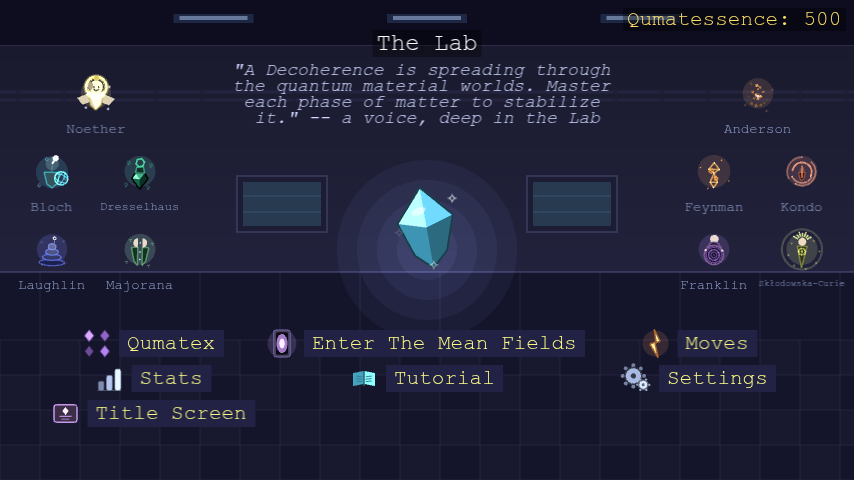
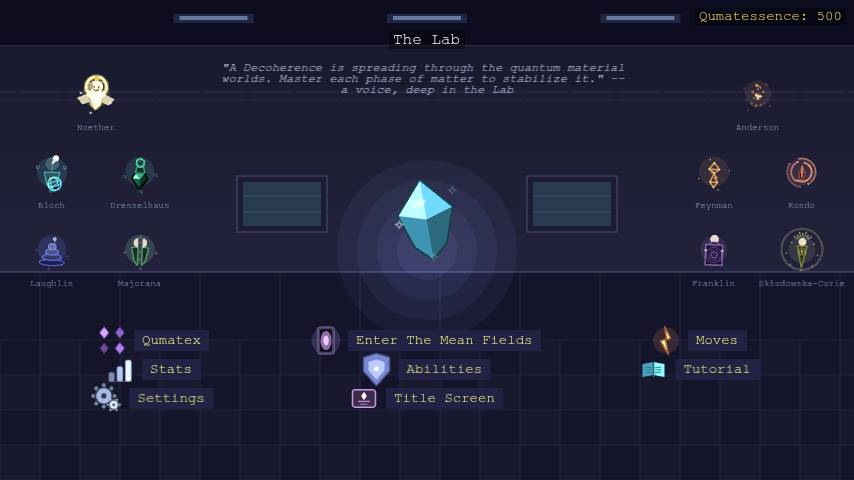
Make Franklin's plate a sheet, so she and Kondo differ in outline
Both guardians read as a ringed disc with a small central mark, and they
stand in the same cluster of the Lab, so colour was the only thing
separating them -- which greyscale defeats and small scale defeats first.

Kondo's disc is the physics: an enclosing screening cloud around a local
moment. Franklin's was a choice, and the other option is also the more
faithful one -- her diffraction images are exposed on rectangular sheet
film -- so her plate is now an upright slab carrying the same rings, held
by both edges. Her outline is the only hard-edged rectangle in the room.

diff --git a/game/src/art/franklin.ts b/game/src/art/franklin.ts
@@ -7,11 +7,16 @@ import { shade } from './colors';
 // into diffuse rings rather than the sharp spots a perfect crystal gives).
 // A slim, upright experimenter holding her detector plate out in front of
 // her like a shield -- which is also what her passives are: always-on
-// defensive diffraction effects. The plate is a dark disc filled with the
+// defensive diffraction effects. The plate is a dark upright sheet of film,
+// the rectangular format these images were actually exposed on, carrying the
 // diffuse Debye-Scherrer ring pattern a disordered sample scatters into --
-// concentric pulsing rings around a dim central beam spot, with a scatter
-// of pore sites between them. Silhouette: a head and narrow shoulders over
-// one large disc, unlike any other guardian's.
+// concentric pulsing rings around a dim central beam spot, with a scatter of
+// pore sites between them. Silhouette: a head and narrow shoulders over one
+// hard-edged upright slab. The rectangle is doing real work at Lab scale,
+// where these stand small and side by side: Kondo's screening shells are a
+// disc by necessity (an enclosing cloud *is* that physics), so a round plate
+// here would leave the two guardians sharing one outline and separable only
+// by colour, which greyscale defeats.
 //
 // Drawn in local space centered on the chest/torso (0,0), same convention
 // as every other avatar builder: an internal sway tween is baked in, so
@@ -98,13 +103,16 @@ export function makeFranklinAvatar(scene: Phaser.Scene, scale = 1): Phaser.GameO
   );
   sway.add(head);
 
-  // The detector plate, held in front of the body: dark film disc, rimmed.
+  // The detector plate, held in front of the body: a dark upright sheet of
+  // film, rimmed.
   const plateY = S * 0.18;
+  const plateW = S * 1.02;
+  const plateH = S * 1.22;
   const plate = scene.add.graphics();
   plate.fillStyle(0x191230, 1);
-  plate.fillCircle(0, plateY, S * 0.58);
+  plate.fillRect(-plateW / 2, plateY - plateH / 2, plateW, plateH);
   plate.lineStyle(1.6, shade(lavender, -15), 0.9);
-  plate.strokeCircle(0, plateY, S * 0.58);
+  plate.strokeRect(-plateW / 2, plateY - plateH / 2, plateW, plateH);
   // The dim central beam spot and the pore sites -- the disordered sample's
   // own structure printed between the rings.
   plate.fillStyle(lavender, 0.55);
@@ -119,10 +127,10 @@ export function makeFranklinAvatar(scene: Phaser.Scene, scale = 1): Phaser.GameO
     plate.fillStyle(shade(lavender, -10), 0.5);
     plate.fillCircle(p.x * S, plateY + p.y * S, S * 0.035);
   });
-  // Two hands gripping the rim -- the plate is held out, not mounted.
+  // Two hands gripping the edges -- the plate is held out, not mounted.
   plate.fillStyle(shade(skin, 4), 1);
-  plate.fillCircle(-S * 0.5, plateY - S * 0.28, S * 0.07);
-  plate.fillCircle(S * 0.5, plateY - S * 0.28, S * 0.07);
+  plate.fillCircle(-plateW / 2, plateY - S * 0.28, S * 0.07);
+  plate.fillCircle(plateW / 2, plateY - S * 0.28, S * 0.07);
   sway.add(plate);
 
   // Concentric diffraction rings on the plate -- the diffuse

diff --git a/dev_notes/STYLE.md b/dev_notes/STYLE.md
@@ -1258,13 +1258,16 @@ than the caller's requested budget) for its own layout math.
   (`#c9a8e0` label / `0xa878c9` stroke and avatar accents) name label; her avatar
   (`art/franklin.ts`'s `makeFranklinAvatar`) is a slim experimenter holding her detector
   plate out in front of her like a shield -- which is what her always-on defensive
-  passives are. The plate is a dark film disc gripped by two hands at its rim, printed
+  passives are. The plate is a dark upright sheet of film -- the rectangular format these
+  images are exposed on -- gripped by two hands at its edges and printed
   with the diffuse Debye-Scherrer ring pattern porous/amorphous carbon scatters an X-ray
   beam into: concentric rings pulsing on offset timings around a dim central beam spot,
   with scattered pore sites between them -- a dusty amethyst/lavender palette distinct
   from Anderson's rust/amber despite the shared defect/disorder theme. Silhouette: a head
-  and narrow shoulders over one large disc, the roster's only figure-behind-a-disc
-  outline.
+  and narrow shoulders over one hard-edged upright slab. The rectangle is load-bearing at
+  Lab scale, where the guardians stand small and side by side: Kondo's screening shells
+  are a disc by necessity, since an enclosing cloud is that physics, so a round plate here
+  would leave the two sharing one outline and separable only by colour.
 - Qumatex-like: below the avatar/quote, the panel (`scenes/panels/franklin.ts`, `760` wide)
   splits into two columns -- a fixed-size crystal-preview block on the left, the passive shop
   list on the right, divided by the same thin vertical line every list+detail panel uses
